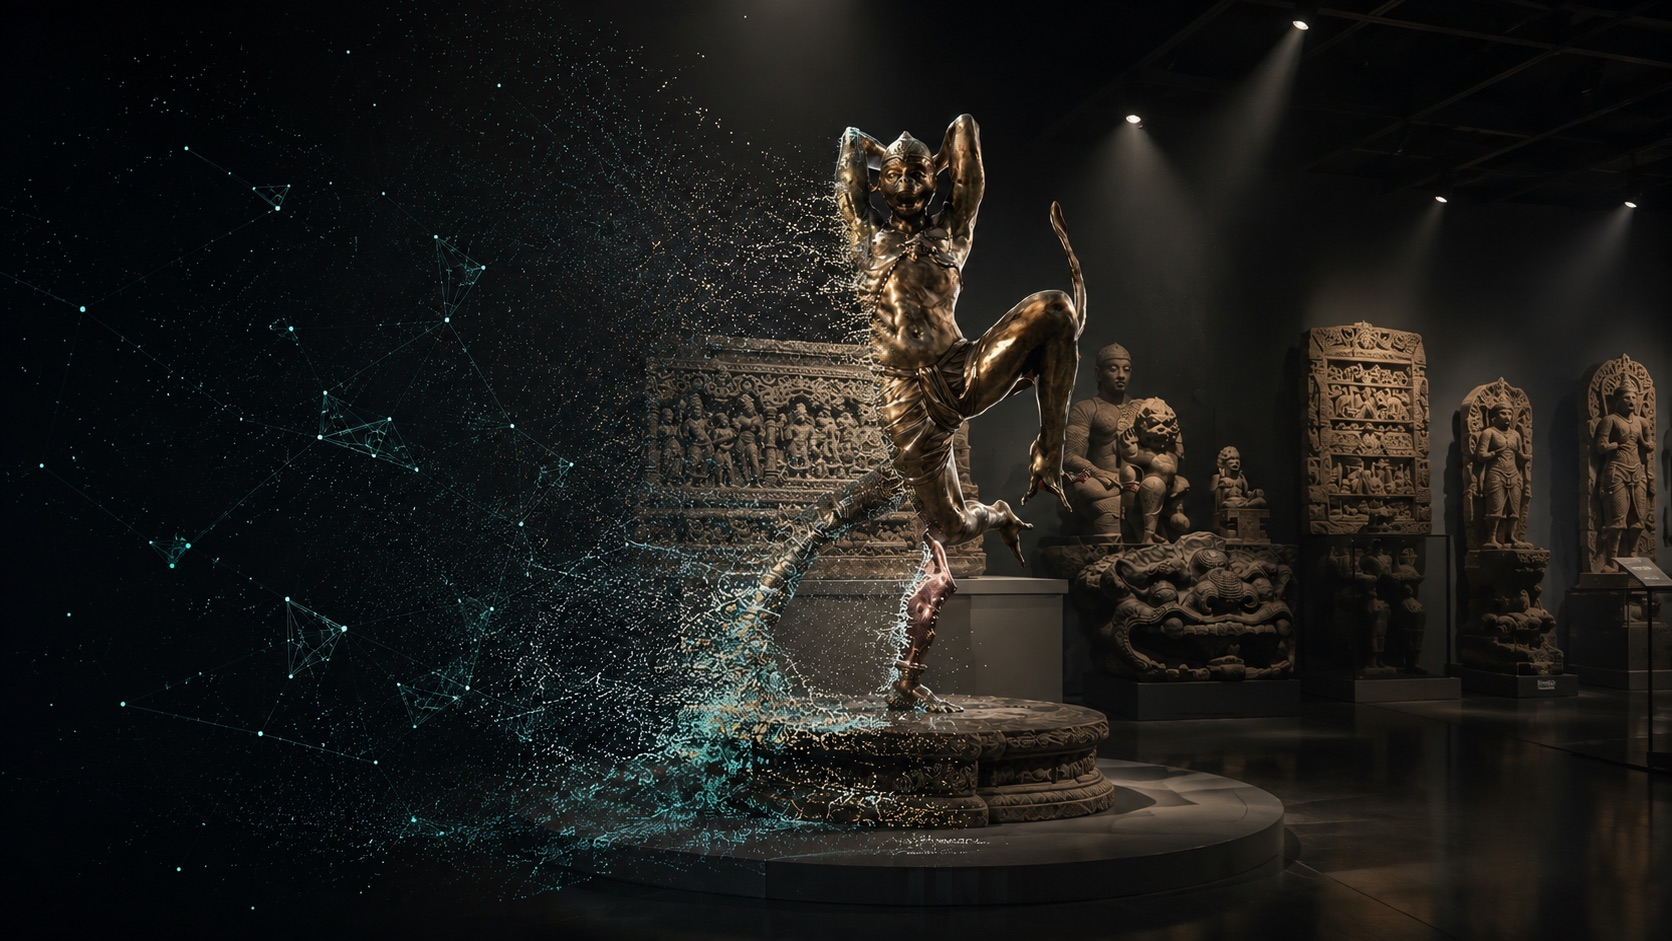
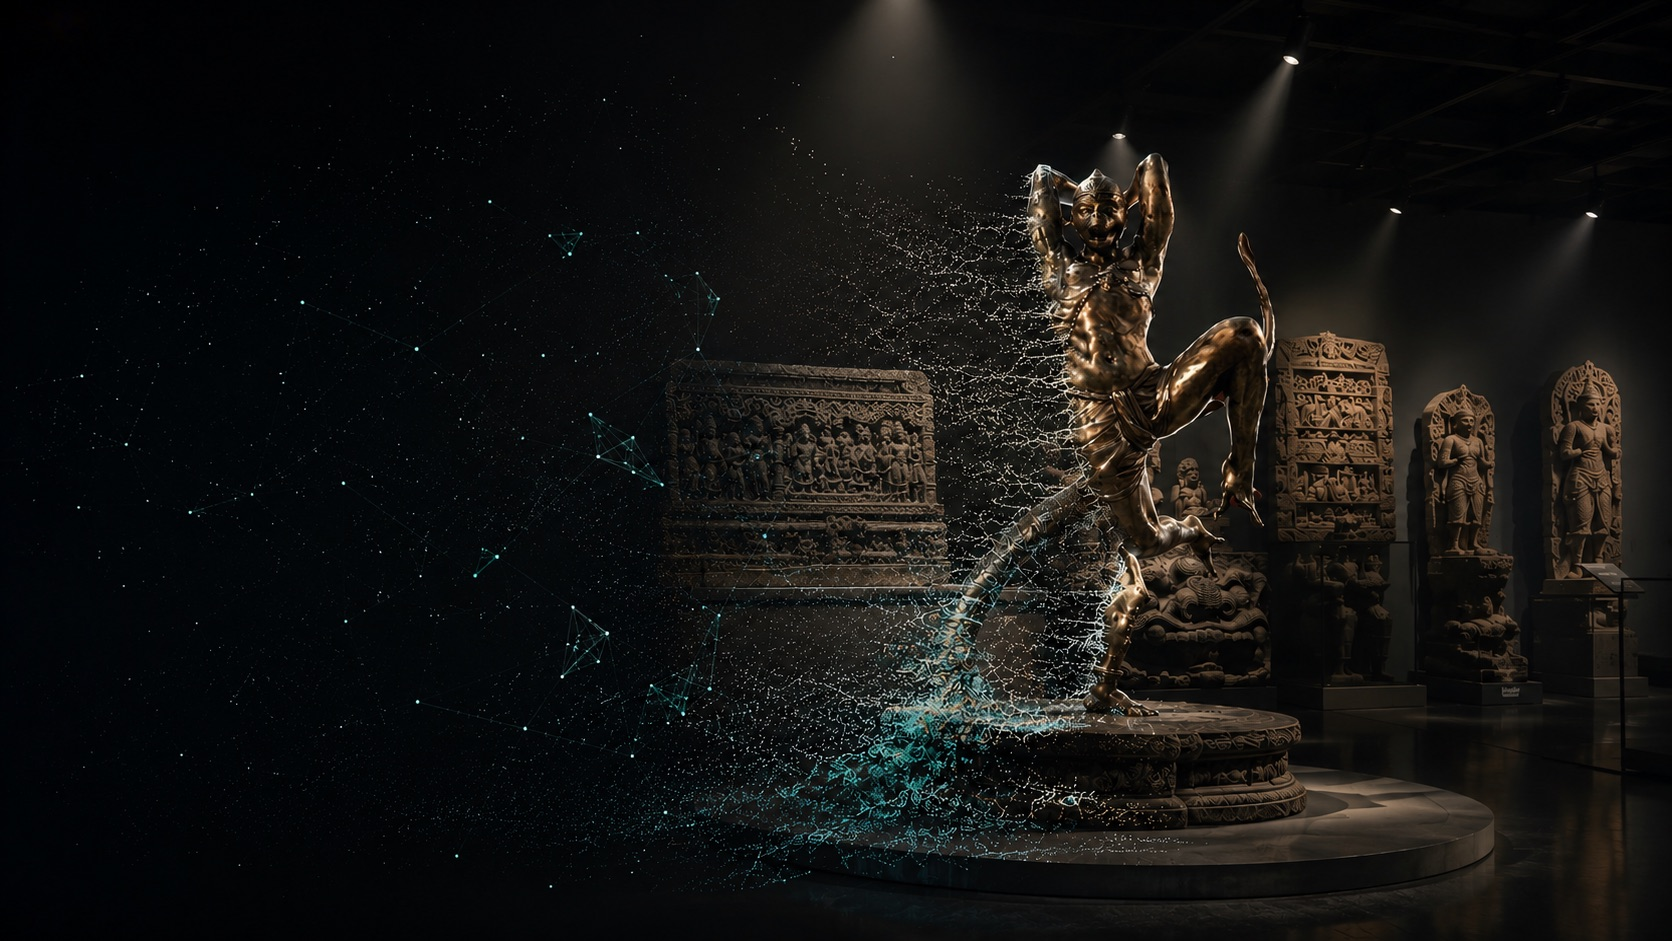
museum: swap the hero background to the alt image

diff --git a/th/museum.html b/th/museum.html
@@ -55,7 +55,7 @@
 </nav>
 <main id="main">
   <section class="page-hero page-hero--full">
-    <div class="page-hero__media page-hero__media--right"><img src="../assets/img/museum-back.jpg" alt="สภาพแวดล้อมป่าที่มีบรรยากาศ ใช้สำหรับการเก็บภาพ 3 มิติเชิงทดลอง"></div>
+    <div class="page-hero__media page-hero__media--right"><img src="../assets/img/museum-back.jpg?v=2" alt="สภาพแวดล้อมป่าที่มีบรรยากาศ ใช้สำหรับการเก็บภาพ 3 มิติเชิงทดลอง"></div>
     <div class="wrap wrap--wide">
       <p class="breadcrumb"><a href="index.html">หน้าแรก</a><span>/</span> พิพิธภัณฑ์ดิจิทัล</p>
       <h1 class="page-hero__title">พิพิธภัณฑ์ดิจิทัล</h1>

diff --git a/museum.html b/museum.html
@@ -55,7 +55,7 @@
 </nav>
 <main id="main">
   <section class="page-hero page-hero--full">
-    <div class="page-hero__media page-hero__media--right"><img src="assets/img/museum-back.jpg" alt="Atmospheric forest environment used for experimental 3D capture"></div>
+    <div class="page-hero__media page-hero__media--right"><img src="assets/img/museum-back.jpg?v=2" alt="Atmospheric forest environment used for experimental 3D capture"></div>
     <div class="wrap wrap--wide">
       <p class="breadcrumb"><a href="index.html">Main</a><span>/</span> Digital Museum</p>
       <h1 class="page-hero__title">The Digital Museum</h1>
